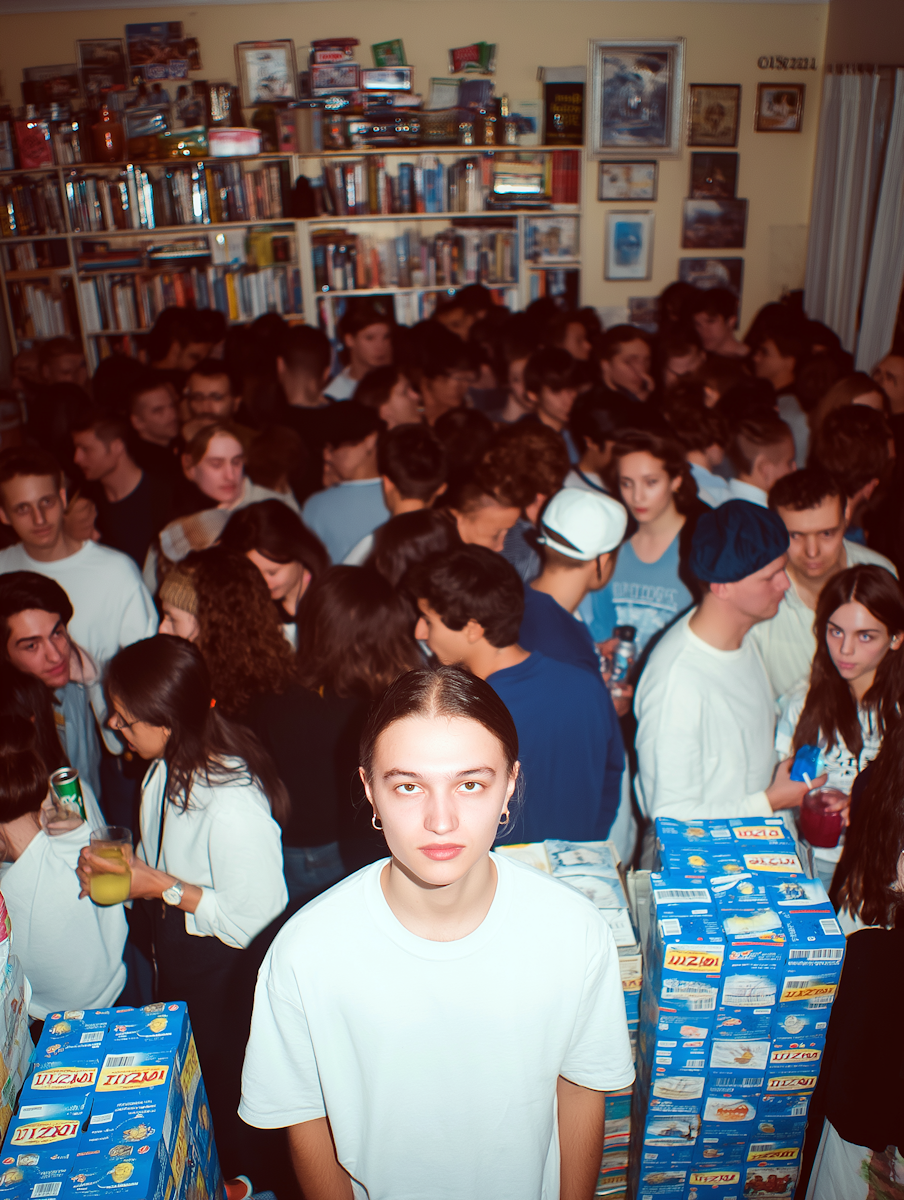
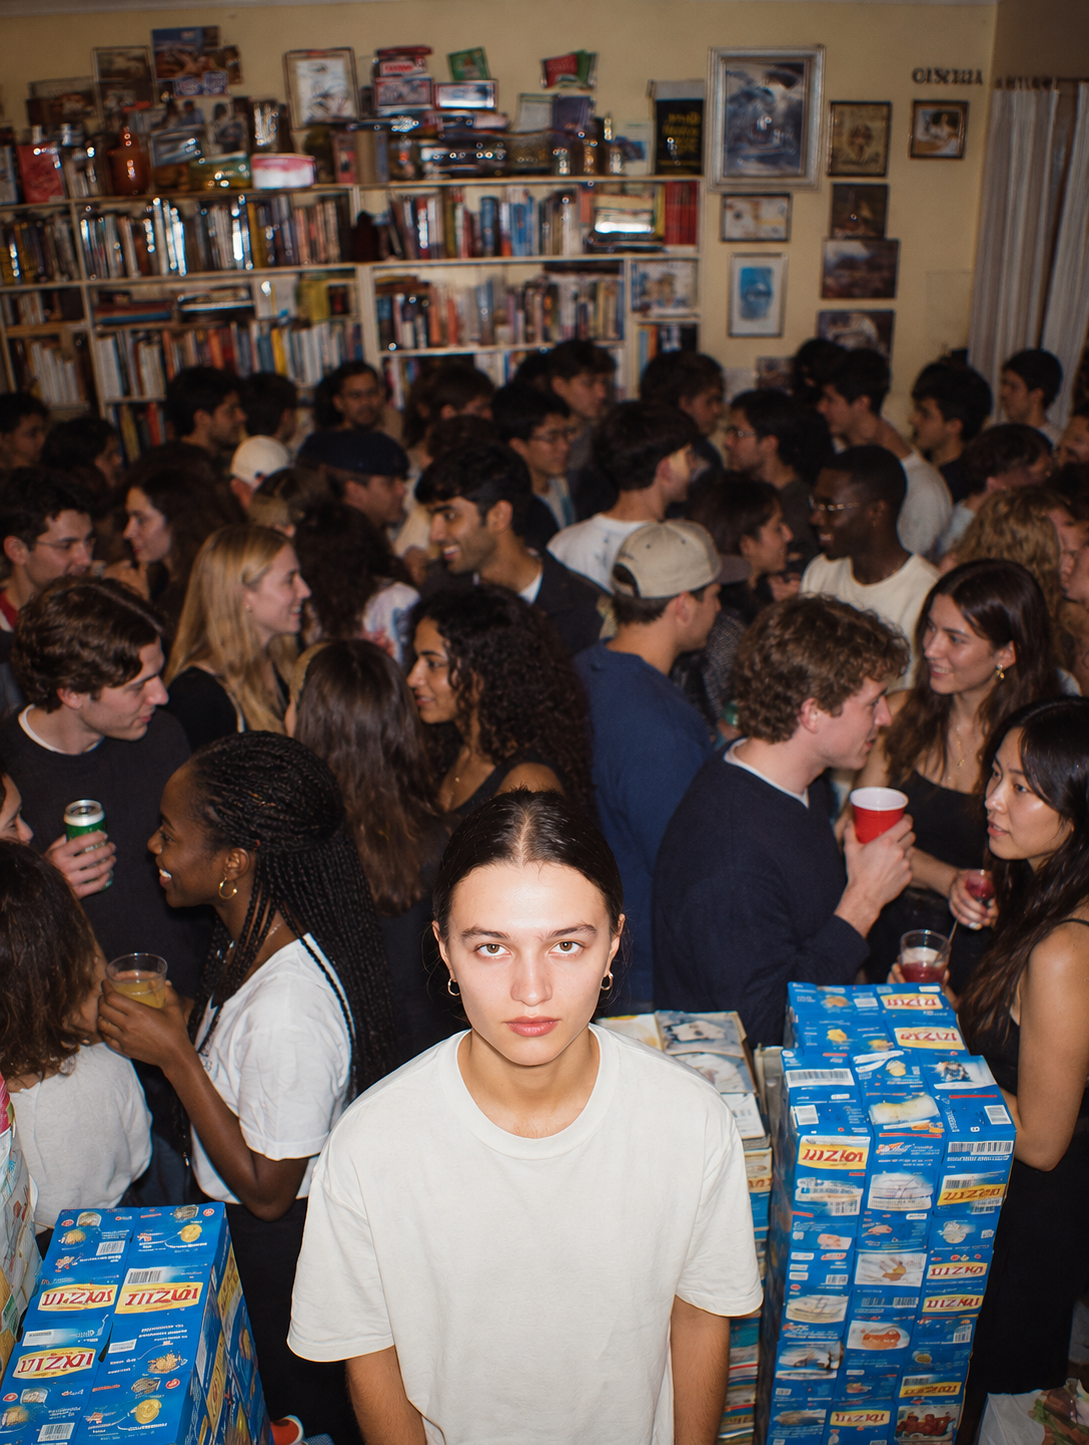
Ansh - Maultiracial Group images Added

diff --git a/app/space/page.tsx b/app/space/page.tsx
@@ -7,9 +7,9 @@ const GALLERY_IMAGES = [
     { id: 2, url: "/images/image-2.JPG", alt: "hyphen 2", className: "col-span-2 row-span-1" }, // Landscape (Real)
     { id: 0, url: "/images/image-0.jpg", alt: "hyphen 0", className: "col-span-1 row-span-2" }, // Portrait (Real)
     { id: 5, url: "/images/image-5.png", alt: "hyphen 5", className: "col-span-1 row-span-1" }, // Square (Real)
-    { id: 8, url: "/images/image-8.jpg", alt: "hyphen 8", className: "col-span-2 row-span-1" }, // Landscape (Real)
+    { id: 8, url: "/images/image-8.png", alt: "hyphen 8", className: "col-span-2 row-span-1" }, // Landscape (Real)
     { id: 11, url: "/images/image-11.png", alt: "hyphen 11", className: "col-span-1 row-span-1" }, // Square (AI)
-    { id: 9, url: "/images/image-9.JPG", alt: "hyphen 9", className: "col-span-2 row-span-1" }, // Landscape (Real)
+    { id: 9, url: "/images/image-9.png", alt: "hyphen 9", className: "col-span-2 row-span-1" }, // Landscape (Real)
     { id: 3, url: "/images/image-3.jpg", alt: "hyphen 3", className: "col-span-1 row-span-2" }, // Portrait (AI)
     { id: 12, url: "/images/image-12.png", alt: "hyphen 12", className: "col-span-1 row-span-2" }, // Portrait (AI)
     { id: 1, url: "/images/image-1.png", alt: "hyphen 1", className: "col-span-2 row-span-1" }, // Landscape (AI)

diff --git a/app/components/Membership.tsx b/app/components/Membership.tsx
@@ -14,7 +14,7 @@ const sessions = [
         time: "ALL DAY",
         title: "Friday Coworking",
         desc: "Full-day coworking access. Ends with our “Shipped” ritual where members share one win for the week.",
-        image: "/images/image-9.JPG",
+        image: "/images/image-9.png",
     },
 ];
 
